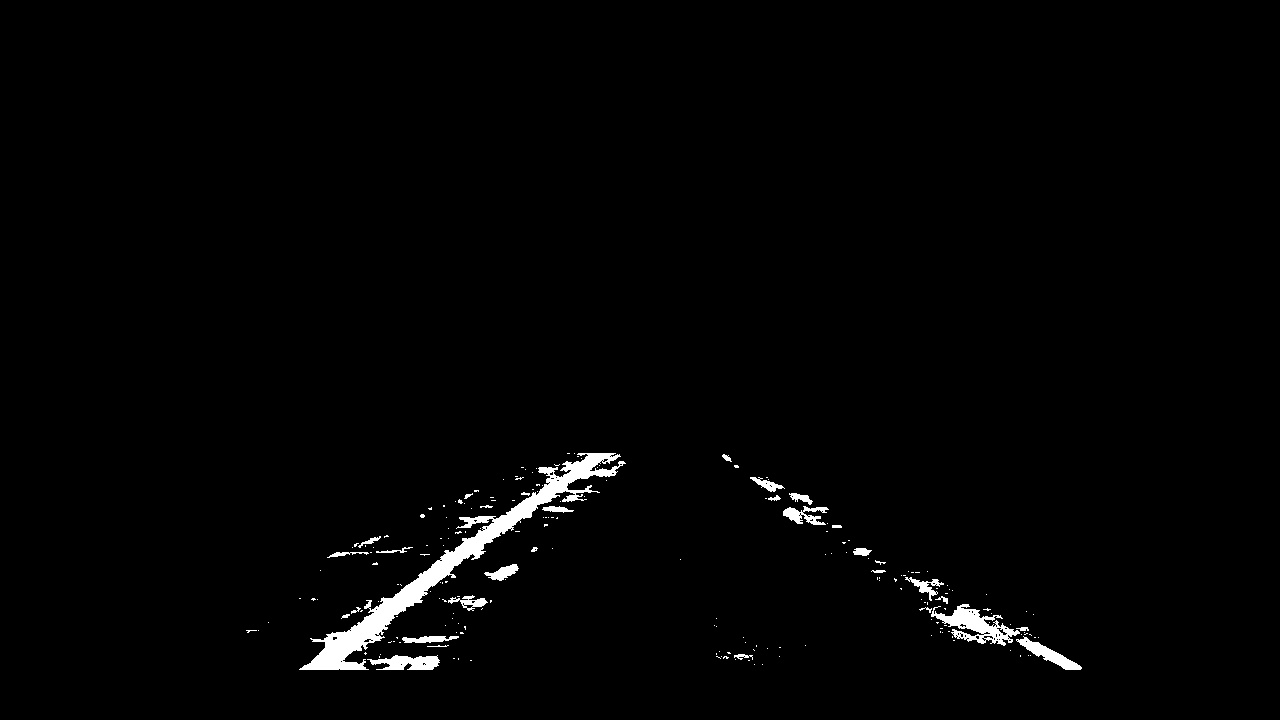
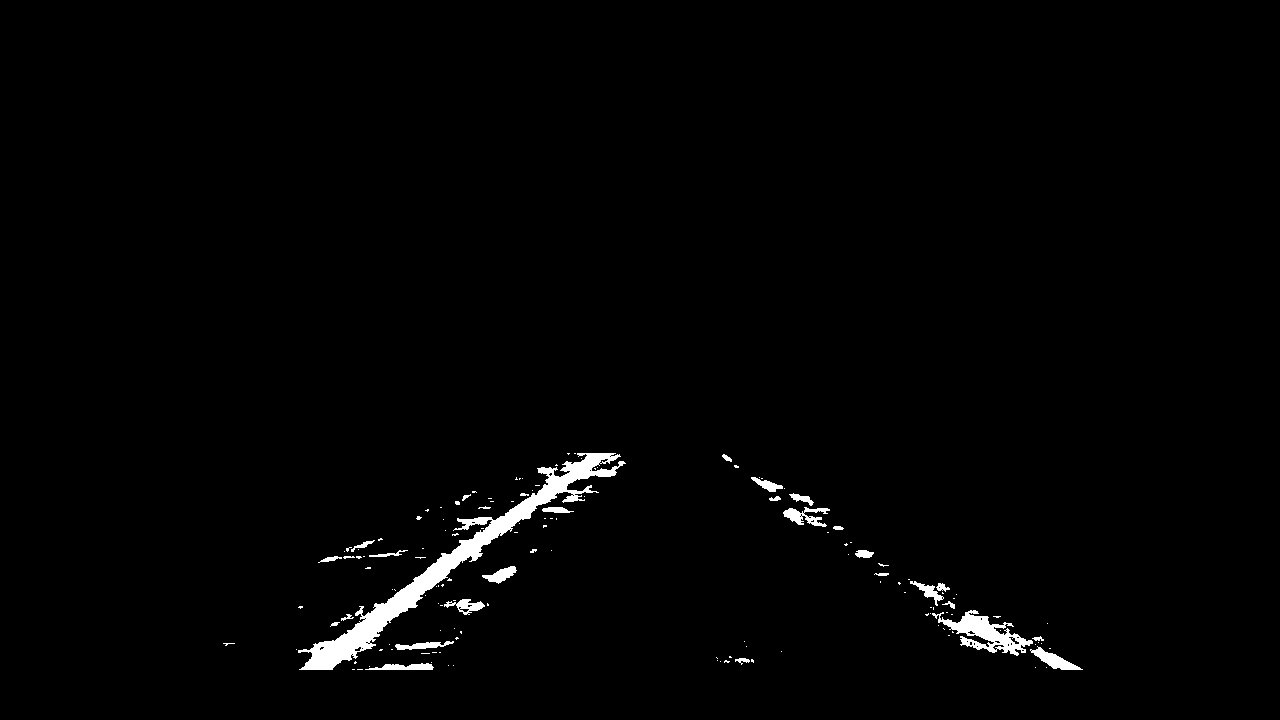
Apply camera undistortion in the pipeline and derive the horizontal scale from measured lane width

diff --git a/Zadatak/step5_curvature_and_draw.py b/Zadatak/step5_curvature_and_draw.py
@@ -1,7 +1,8 @@
 import sys
 import cv2
 import numpy as np
-from common import find_lane_pixels, robust_fit, get_src_dst, OUT, REF_W
+from common import (find_lane_pixels, robust_fit, get_src_dst, undistort,
+                    OUT, REF_W, LANE_WIDTH_M, LANE_WIDTH_PX)
 
 
 def measure_curvature_and_draw(original_image_path, warped_image_path):
@@ -11,6 +12,7 @@ def measure_curvature_and_draw(original_image_path, warped_image_path):
         print("Error: Could not load images for step 5.")
         return None
 
+    original_img = undistort(original_img)
     _, binary = cv2.threshold(warped_img, 127, 255, cv2.THRESH_BINARY)
 
     leftx, lefty, rightx, righty, _ = find_lane_pixels(binary)
@@ -25,7 +27,7 @@ def measure_curvature_and_draw(original_image_path, warped_image_path):
     right_fit, right_mask = robust_fit(righty, rightx, thresh)
 
     ym_per_pix = 30 / h
-    xm_per_pix = 3.7 / (700 * w / REF_W)
+    xm_per_pix = LANE_WIDTH_M / (LANE_WIDTH_PX * w / REF_W)
 
     ploty = np.linspace(0, h - 1, h)
     y_eval = np.max(ploty)

diff --git a/Zadatak/common.py b/Zadatak/common.py
@@ -1,11 +1,29 @@
 import os
 import cv2
 import numpy as np
+import pickle
 
 OUT = 'output_images'
 os.makedirs(OUT, exist_ok=True)
 
 REF_W = 1280
+REF_H = 720
+LANE_WIDTH_M = 3.7
+LANE_WIDTH_PX = 569
+
+_CALIBRATION = None
+
+
+def undistort(img):
+    global _CALIBRATION
+    if img.shape[1] != REF_W or img.shape[0] != REF_H:
+        return img
+    if _CALIBRATION is None:
+        with open('calibration.p', 'rb') as f:
+            _CALIBRATION = pickle.load(f)
+    mtx = _CALIBRATION['mtx']
+    dist = _CALIBRATION['dist']
+    return cv2.undistort(img, mtx, dist, None, mtx)
 
 
 def get_src_dst(w, h):

diff --git a/Zadatak/step2_preprocessing.py b/Zadatak/step2_preprocessing.py
@@ -1,7 +1,7 @@
 import sys
 import cv2
 import numpy as np
-from common import OUT, get_src_dst
+from common import OUT, get_src_dst, undistort
 
 
 def process_image(image_path):
@@ -9,6 +9,8 @@ def process_image(image_path):
     if img is None:
         print(f"Error: Could not load image from {image_path}")
         return None
+
+    img = undistort(img)
 
     hls = cv2.cvtColor(img, cv2.COLOR_BGR2HLS)
     h_channel = hls[:, :, 0]

diff --git a/Zadatak/writeup_template.md b/Zadatak/writeup_template.md
@@ -18,7 +18,7 @@ The goals / steps of this project are the following:
 [//]: # (Image References)
 
 [image1]: ./examples/undistort_output.jpg "Undistorted"
-[image2]: ./test_images/test1.jpg "Road Transformed"
+[image2]: ./examples/undistort_road.jpg "Road Transformed"
 [image3]: ./output_images/output_binary.jpg "Binary Example"
 [image4]: ./output_images/output_warped.jpg "Warp Example"
 [image5]: ./output_images/output_fit.jpg "Fit Visual"
@@ -38,7 +38,7 @@ You're reading it!
 | File | Purpose |
 |---|---|
 | `calibration.py` | Step 1: camera calibration (run once) |
-| `common.py` | Shared code: source/destination points, sliding-window search, RANSAC polynomial fit |
+| `common.py` | Shared code: undistortion, constants, source/destination points, sliding-window search, RANSAC polynomial fit |
 | `step2_preprocessing.py` | Step 2: color thresholding into a binary image |
 | `step3_perspective.py` | Step 3: perspective transform (birds-eye view) |
 | `step4_lane_fit.py` | Step 4: lane-pixel detection and polynomial fit |
@@ -56,10 +56,10 @@ python3 calibration.py
 python3 step2_preprocessing.py test_images/test1.jpg
 python3 step3_perspective.py test_images/test1.jpg
 python3 step4_lane_fit.py output_images/output_warped.jpg
-python3 step5_curvature_and_draw.py test_images/test1.jpg 
+python3 step5_curvature_and_draw.py test_images/test1.jpg output_images/output_warped.jpg
 ```
 
-Replace `test_images/test1.jpg` with any other road image. Step 4 reads the output of step 3, and step 5 reads the original image together with the output of step 3. Step 3 calls step 2 internally, so running step 3 alone is enough to produce both the binary and the warped image. All results are written to `output_images/`.
+`calibration.py` has to be run first, because it creates `calibration.p`, which the other steps load to undistort the images. Replace `test_images/test1.jpg` with any other road image. Step 4 reads the output of step 3, and step 5 reads the original image together with the output of step 3. Step 3 calls step 2 internally, so running step 3 alone is enough to produce both the binary and the warped image. All results are written to `output_images/`.
 
 ### Camera Calibration
 
@@ -84,17 +84,17 @@ The camera matrix and distortion coefficients are computed from the chessboard i
 
 #### 1. Provide an example of a distortion-corrected image.
 
-The calibration from the previous section produces `calibration.p`, and `cv2.undistort()` with these parameters removes the radial and tangential lens distortion (see the corrected chessboard image above).
+The saved calibration is applied to every road image by `undistort()` in `common.py`. It is called at the beginning of step 2 (before thresholding) and in step 5 (before the lane is drawn), so the thresholding, the perspective transform and the final overlay all work on the same corrected geometry. Images that are not 1280x720 come from a different camera and are returned unchanged, because the calibration is valid only for the camera that took the chessboard images.
 
-The single-image pipeline below operates directly on the road images from `test_images/`. Applying the saved calibration to the road images is not part of the current scripts.
+The example below shows `test1.jpg` before (left) and after (right) the correction. The effect is most visible near the image borders, for example on the car hood and the barrier.
 
-![Road][image2]
+![Road Transformed][image2]
 
 #### 2. Describe how (and identify where in your code) you used color transforms, gradients or other methods to create a thresholded binary image.  Provide an example of a binary image result.
 
 **File:** `step2_preprocessing.py`, function `process_image()`
 
-The image is converted to the HLS color space and two color masks are combined with a logical OR:
+The image is first undistorted, then converted to the HLS color space, and two color masks are combined with a logical OR:
 
 - **White lines:** lightness `L >= 190`.
 - **Yellow lines:** hue between 15 and 35, saturation `S >= 80` and lightness `L >= 60`.
@@ -107,7 +107,6 @@ Gradient (Sobel) thresholds were tried first, but they picked up barriers, road 
 **Output:** `output_images/output_binary.jpg`, a black and white image in which white pixels are lane-line candidates.
 
 ![Binary][image3]
-
 
 #### 3. Describe how (and identify where in your code) you performed a perspective transform and provide an example of a transformed image.
 
@@ -132,7 +131,6 @@ Gradient (Sobel) thresholds were tried first, but they picked up barriers, road 
 
 ![Warped][image4]
 
-
 #### 4. Describe how (and identify where in your code) you identified lane-line pixels and fit their positions with a polynomial?
 
 **Files:** `step4_lane_fit.py`, function `find_lane_pixels_and_fit()`; helpers `find_lane_pixels()` and `robust_fit()` in `common.py`
@@ -147,14 +145,13 @@ Gradient (Sobel) thresholds were tried first, but they picked up barriers, road 
 
 ![Fit][image5]
 
-
 #### 5. Describe how (and identify where in your code) you calculated the radius of curvature of the lane and the position of the vehicle with respect to center.
 
 **File:** `step5_curvature_and_draw.py`, function `measure_curvature_and_draw()`
 
 The step repeats the pixel search and RANSAC fit of step 4 on the warped image and then:
 
-- **Pixels to meters:** `ym_per_pix = 30 / h` (the visible road section is assumed to be about 30 m long) and `xm_per_pix = 3.7 / (700 * w / 1280)` (a lane is assumed to be 3.7 m wide and about 700 px wide in the birds-eye view). New polynomials are fitted in meters on the inlier pixels.
+- **Pixels to meters:** `ym_per_pix = 30 / h` (the visible road section is assumed to be about 30 m long). The horizontal scale is `xm_per_pix = 3.7 / (569 * w / 1280)`: a lane is 3.7 m wide, and 569 px is the lane width measured in the birds-eye view of `straight_lines1.jpg` and `straight_lines2.jpg` (572 and 566 px) with the same code that is used for detection. `LANE_WIDTH_PX` is defined in `common.py`. New polynomials are fitted in meters on the inlier pixels.
 - **Radius of curvature:** `R = (1 + (2Ay + B)^2)^(3/2) / |2A|` is evaluated at the bottom of the image for both lines and averaged. A small epsilon avoids a division by zero on a perfectly straight line.
 - **Vehicle offset:** the camera is assumed to be mounted at the center of the car, so the offset is the difference between the image center and the lane center at the bottom of the image, converted to meters. A negative value means the vehicle is left of the center.
 
@@ -163,17 +160,17 @@ The step repeats the pixel search and RANSAC fit of step 4 on the warped image a
 **Output (console), for `test1.jpg`:**
 
 ```
-Radius of Curvature: 1225.16 m
-Vehicle offset from center: -0.18 m
+Radius of Curvature: 1251.67 m
+Vehicle offset from center: -0.21 m
 ```
 
 #### 6. Provide an example image of your result plotted back down onto the road such that the lane area is identified clearly.
 
 **File:** `step5_curvature_and_draw.py` (same function as above)
 
-The area between the two fitted curves is filled green in the birds-eye view, warped back onto the road image with `cv2.warpPerspective()` and the inverse matrix `Minv` (built from the same points as in step 3), and blended with the original image using `cv2.addWeighted()`. The radius of curvature and the vehicle offset are written on top of the image.
+The area between the two fitted curves is filled green in the birds-eye view, warped back onto the undistorted road image with `cv2.warpPerspective()` and the inverse matrix `Minv` (built from the same points as in step 3), and blended with it using `cv2.addWeighted()`. The radius of curvature and the vehicle offset are written on top of the image.
 
-**Output:** `output_images/output_final.jpg`. For `test1.jpg` the radius of curvature is 1225.16 m and the vehicle is 0.18 m left of center.
+**Output:** `output_images/output_final.jpg`. For `test1.jpg` the radius of curvature is 1251.67 m and the vehicle is 0.21 m left of center.
 
 ![Output][image6]
 
@@ -187,7 +184,6 @@ TODO: Add your text here!!!
 
 #### 1. Briefly discuss any problems / issues you faced in your implementation of this project.  Where will your pipeline likely fail?  What could you do to make it more robust?
 
-
 **Problems faced**
 
 - **Noisy binary image.** The first version combined Sobel gradients with S-channel and lightness thresholds. It also picked up the concrete barrier, road seams, shadows and the edges of other cars, and these pixels pulled the fitted curves away from the lane. Switching to white/yellow color thresholds and restricting the region of interest to the same trapezoid as the perspective transform removed most of this noise.
@@ -200,14 +196,12 @@ TODO: Add your text here!!!
 - Strong shadows, glare or faded and worn lane markings, where the color thresholds miss the line or pick up non-lane pixels.
 - Sharp curves, where a line leaves the source trapezoid, and hills, where the flat-road assumption of the perspective transform does not hold.
 - Lane changes, other vehicles directly in front of the car, and roads with no or unusual markings.
-- Images from a different camera (different field of view and horizon), because the source trapezoid is fixed.
-- The meter conversion is approximate. It assumes a fixed lane width of about 700 px in the birds-eye view, but the transformed lane is wider, so the radius and the offset have a systematic error.
+- Images from a different camera (different field of view and horizon), because the source trapezoid is fixed and the calibration is valid only for the camera that took the chessboard images.
+- The meter conversion is approximate. The horizontal scale comes from a lane width measured once on straight test images, and the vertical scale assumes about 30 m of visible road. On a dashed right line the extrapolation to the bottom of the image is less reliable, so the offset (for example 0.77 m on `test4.jpg`) and the radius are less certain than on images with two solid lines.
 
 **How to make it more robust**
 
-- Apply the saved camera calibration to every road image before thresholding.
 - Combine the color thresholds with a gradient threshold, and use adaptive thresholds (for example CLAHE on the lightness channel) for shadows and different lighting.
 - On video, smooth the polynomial coefficients over several frames, search around the previous fit instead of restarting with a histogram, and reject frames that fail sanity checks (lane width, parallel lines, sudden curvature change).
-- Measure the lane width in the birds-eye view to compute the horizontal scale instead of using a fixed value.
+- Measure the lane width in every frame from the detected lines instead of using a value measured once, so the scale adapts to the camera and the road.
 - Save intermediate images as PNG, or pass them between steps as arrays.
-
